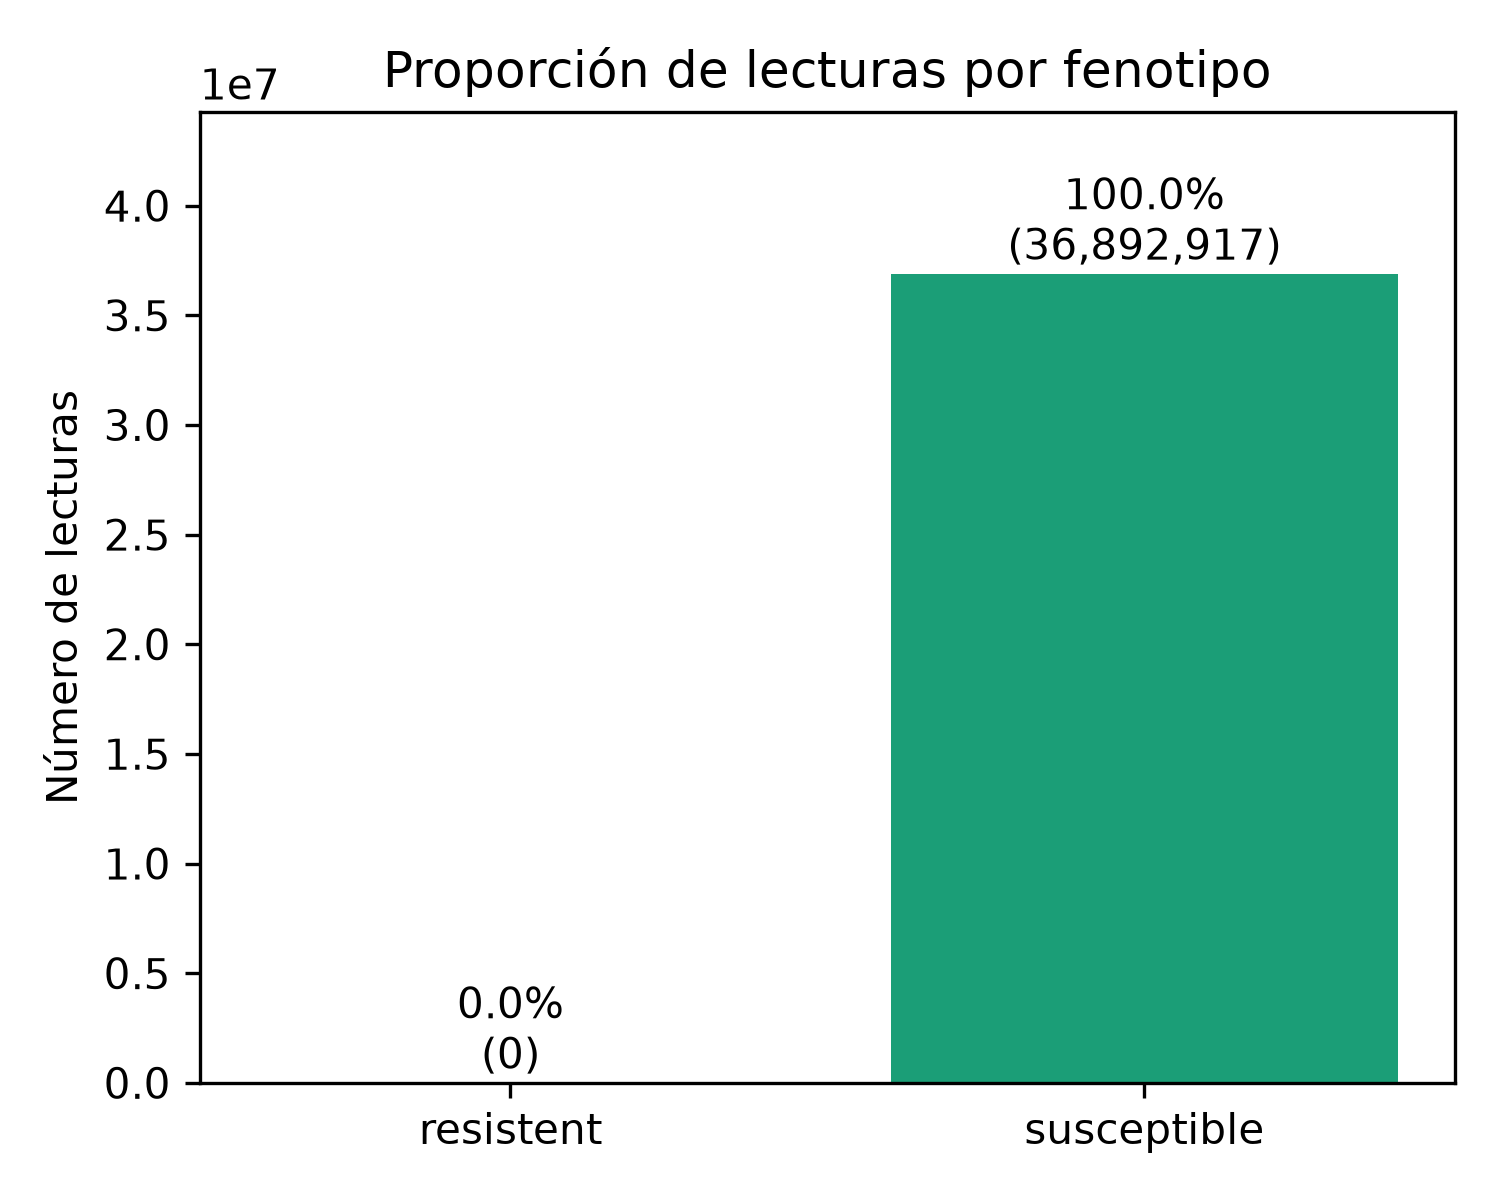
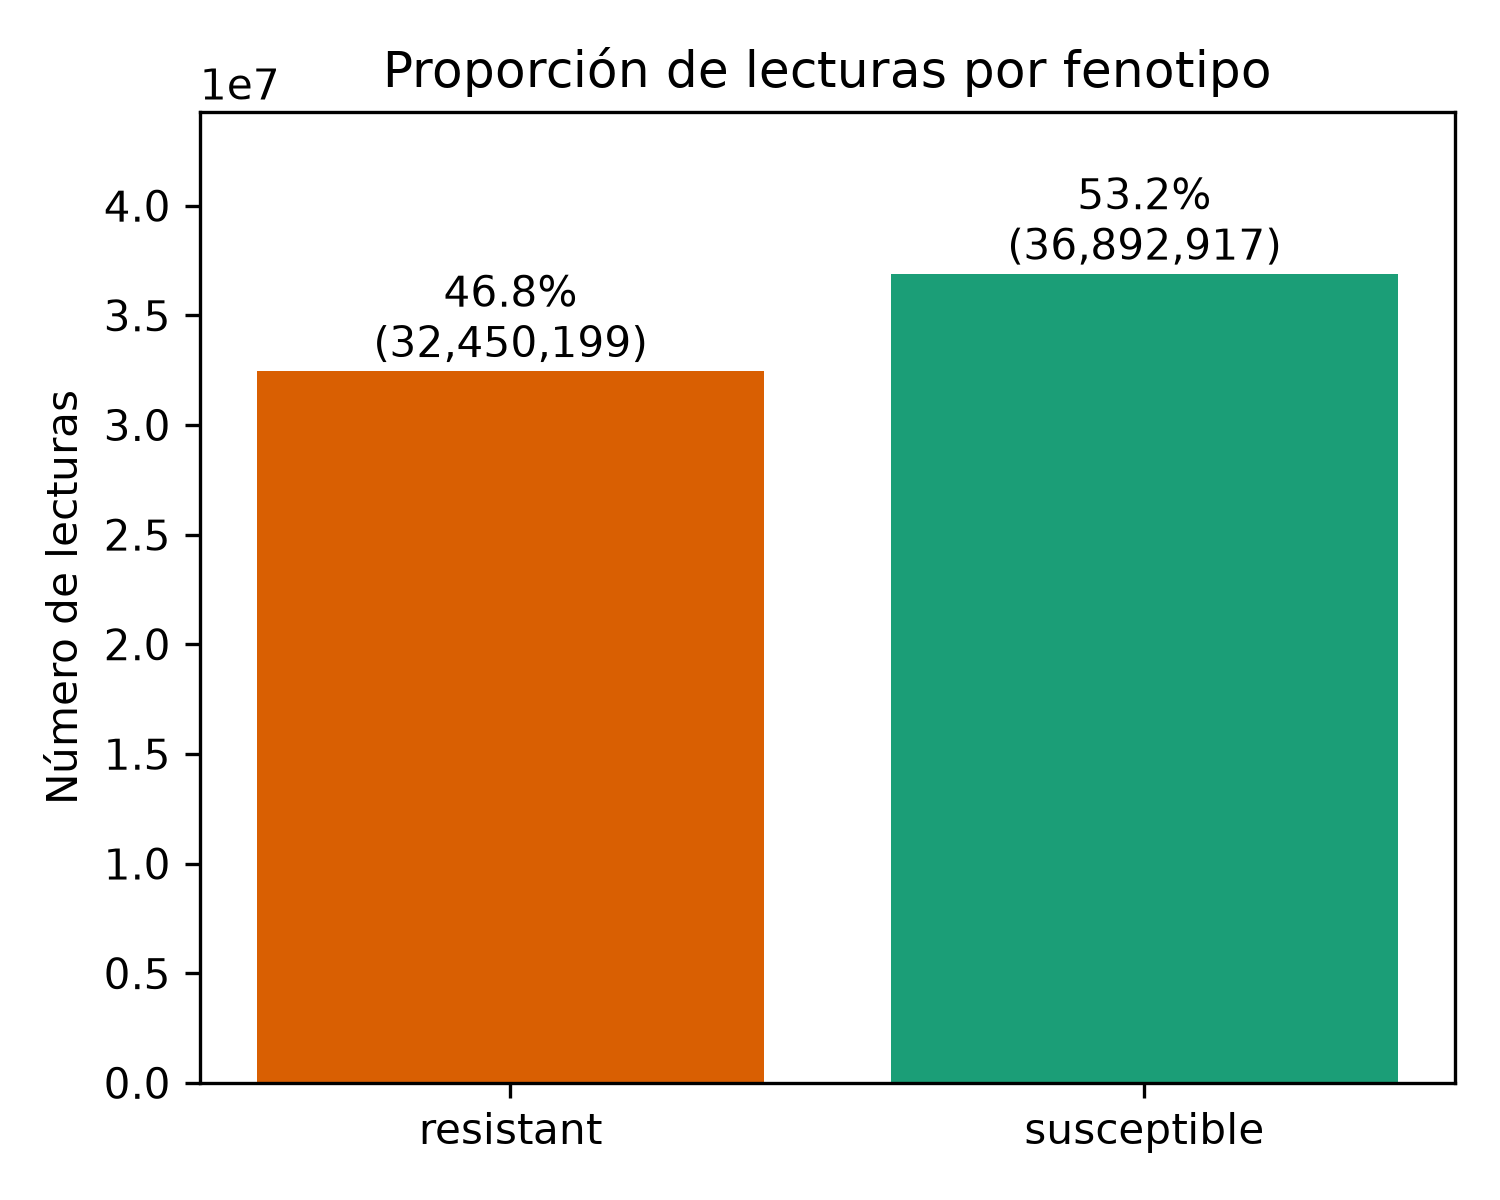
docs: update README, download_data docs, linux env and reads proportion plot

Changed region(s): [[0.1533, 0.2158, 0.5213, 0.9558], [0.7053, 0.1233, 0.828, 0.185]]

diff --git a/docs/download_data.md b/docs/download_data.md
@@ -1,0 +1,168 @@
+# Pipeline de la descarga de datos del Bioproject 
+
+## Resumen 
+
+Este módulo automatiza la consulta y descarga de datos asociados a un Bioproject de NCBI, a partir de un identificador (por ejemplo, PRJNA170440). 
+
+El módulo realiza lo siguiente:
+
+1. Configura NCBI Entrez con un email y API key. 
+2. Descarga los metadatos del BioProject.
+3. Obtiene los BioSamples y SRA asociados, y guarda sus metadatos.
+4. Descarga las lecturas (FASTQ) de cada SRA y las clasifica por fenotipo (`susceptible` o `resistant`).
+5. Opcionalmente, descarga el genoma de referencia del organismo.
+6. Opcionalmente, genera un gráfico comparativo de proporción de lecturas
+   entre los dos fenotipos.
+
+**Todas las acciones se registran con marcas de tiempo en un archivo de log.**
+
+## Requisitos 
+
+-  Python 3.12
+- Biopython (`Bio.Entrez`)
+- Matplotlib (para el gráfico de proporción de lecturas)
+- Conexión a internet
+
+**Se recomienda ejecutar desde la raíz del proyecto, ya  (`docs/`, `data/`, `results/`, `logs/`).**
+
+## Estructura de archivos generados 
+
+analisis_expresion_malaria/
+├── docs/
+│ ├── bioproject_metadata.txt
+│ ├── biosample_metadata.txt
+│ ├── sra_metadata.txt
+│ └── genome_metadata.txt
+├── data/
+│ ├── raw/
+│ │ ├── susceptible/sra_runs/ # FASTQ de la cepa susceptible
+│ │ └── resistant/sra_runs/ # FASTQ de la cepa resistente
+│ └── genome/
+│ └── genome_{organismo}.fasta
+├── results/
+│ └── reads_proportion.png
+└── logs/
+└── download_data.log
+
+## Pipeline 
+
+```mermaid
+flowchart TD
+    A([PRJNA...]) --> B[configurate_entrez]
+    B --> C[get_bioproject_uid]
+    C --> D[get_bioproject_metadata] --> D1[(bioproject_metadata.txt)]
+    D --> E[get_biosamples_and_sra]
+    E --> E1[save_biosample_metadata] --> E2[(biosample_metadata.txt)]
+    E --> E3[save_sra_metadata] --> E4[(sra_metadata.txt)]
+    E --> F[download_sra_lectures]
+    F --> F1[(data/raw/susceptible/sra_runs/)]
+    F --> F2[(data/raw/resistant/sra_runs/)]
+    F -.->|--reference| G[ get_bioproject_organism -> get_genome_metadata -> get_reference_assembly -> download_reference_genome]
+    G --> G1[(data/genome/genome_*.fasta)]
+    G --> G2[(genome_metadata.txt)]
+    F -.->|--graphic| H[plot_reads_proportion] --> H1[(results/reads_proportion.png)]
+```
+
+## Componentes clave 
+
+### Utilidades de Entrez
+
+`configurate_entrez(email, api_key)` — asigna `Entrez.email` y, si existe, `Entrez.api_key`. 
+Lanza `ValueError` si no se proporciona email.
+
+`get_bioproject_uid(bioproject_id)` — convierte un accession tipo `PRJNA...` al UID interno numérico mediante `esearch`. 
+Es la base de todas las consultas posteriores.
+
+### BioProject
+
+`get_bioproject_metadata(bioproject_id, outdir="docs")` — obtiene el resumen del BioProject (`esummary`) y lo guarda en `docs/bioproject_metadata.txt`.
+
+### BioSamples y SRA
+
+`get_biosamples_and_sra(bioproject_id)` — devuelve dos listas: UIDs de
+BioSamples y UIDs de SRA asociados al BioProject, usando `elink`. Imprime
+ambas listas y registra los conteos en el log.
+
+`save_biosample_metadata(biosample_ids, bioproject_id, outdir="docs")` —
+guarda `Accession`, `Id`, `Title`, `Organism` y `ProjectAccession` de cada
+BioSample en `docs/biosample_metadata.txt`.
+
+`save_sra_metadata(sra_ids, bioproject_id, outdir="docs")` — guarda
+`ExtId` (SRX), `Id`, `Title` y el accession del Run (SRR) extraído del XML
+`Runs` de cada SRA en `docs/sra_metadata.txt`.
+
+### Lecturas
+
+`download_sra_lectures(bioproject_id, outdir="data/", w=8)` — para cada SRA:
+
+1. Consulta `esummary(db="sra")`.
+2. Extrae el fenotipo del campo `ExpXml` mediante regex.
+3. Extrae los accessions de Run (`SRR`).
+4. Ejecuta `fasterq-dump <SRR> -O <dir> --split-files -e <workers>`.
+
+Las lecturas se almacenan en `data/raw/susceptible/sra_runs/` o
+`data/raw/resistent/sra_runs/` según el fenotipo detectado. Si aparece un
+fenotipo distinto, se crea `data/raw/<fenotipo>/sra_runs/`.
+
+### Genoma de referencia
+
+`get_reference_assembly(organism)` — busca en `db="assembly"` con el filtro
+`"reference genome"[filter]` y devuelve el primer ensamblaje de referencia
+como diccionario (`DocumentSummary`).
+
+`get_genome_metadata(bioproject_id, outdir="docs/")` — guarda en
+`docs/genome_metadata.txt` los campos:
+
+- `AssemblyAccession`
+- `AssemblyName`
+- `AssemblyStatus`
+- `Organism`
+- `RefSeq_category`
+- `FtpPath_RefSeq`
+- `FtpPath_GenBank`
+
+`download_reference_genome(bioproject_id, outdir="data/")` — usa
+`FtpPath_RefSeq` (o `FtpPath_GenBank` como respaldo), construye la URL del
+archivo `*_genomic.fna.gz`, lo descarga, lo descomprime y lo guarda como
+`data/genome/genome_{organismo}.fasta`. Si el archivo ya existe, omite la
+descarga.
+
+### Análisis rápido
+
+`count_reads(fastq_path)` — cuenta lecturas asumiendo 4 líneas por lectura.
+Soporta `.fastq` y `.fastq.gz`.
+
+`plot_reads_proportion(data_dir, outdir)` — cuenta lecturas de cada fenotipo
+(solo archivos `_1` en caso de paired-end, para no duplicar) y genera
+`results/reads_proportion.png` con la proporción por grupo.
+
+
+## Uso por línea de comandos
+
+### Argumentos
+
+| Argumento | Requerido | Default | Descripción |
+|---|---|---|---|
+| `-p`, `--project` | Sí | — | BioProject ID (`PRJNA...`) |
+| `-e`, `--email` | Sí | — | Email para NCBI Entrez |
+| `-a`, `--api_key` | No | `None` | API key de NCBI |
+| `-om`, `--outdirm` | No | `docs/` | Directorio de metadatos |
+| `-od`, `--outdird` | No | `data/` | Directorio de datos |
+| `--thr_fq` | No | `8` | Workers para `fasterq-dump` |
+| `-r`, `--reference` / `--no-reference` | No | `True` | Descargar genoma |
+| `-g`, `--graphic` / `--no-graphic` | No | `True` | Generar gráfico |
+| `-v`, `--verbose` | No | `False` | Mensajes DEBUG |
+| `--log_file` | No | `logs/download_data.log` | Ruta del log |
+
+### Ejemplos
+
+1. Ejecución mínima (metadatos + lecturas, sin genoma ni gráfico):
+
+```bash
+python src/download_data.py -p PRJNA170440 -e correo@ejemplo.com \ --no-reference --no-graphic
+```
+
+2. Ejecución completa 
+```bash
+python src/download_data.py -p PRJNA170440 -e correo@ejemplo.com -v
+```

diff --git a/README.md b/README.md
@@ -1,6 +1,6 @@
-# Expresión diferencial entre organismos de Anopheles gambiae, mosquito vector de la malaria, resistentes y susceptibles a insecticidas
+# Expresión diferencial entre organismos de *Anopheles gambiae*, mosquito vector de la malaria, resistentes y susceptibles a insecticidas
 
-Se analizarán los datos disponibles en la base de datos del NCBI para comparar los perfiles de expresión génica (transcriptomas) de mosquitos *Anopheles gambiae* resistentes a insecticidas frente a los susceptibles. El objetivo es identificar qué genes se expresan de manera diferencial y que, por lo tanto, podrían estar implicados en la resistencia.
+Se analizarán los datos disponibles en la base de datos del NCBI para comparar los perfiles de expresión génica (transcriptomas) de mosquitos *Anopheles gambiae* resistentes a deltametrina frente a los susceptibles. El objetivo es identificar qué genes se expresan de manera diferencial y que, por lo tanto, podrían estar implicados en la resistencia.
 
 Para conocer el planteamiento, las preguntas de investigación, la metodología y
 los resultados, consulta el [reporte de proyecto](docs/reporte-proyecto.md).
@@ -36,13 +36,15 @@ proyecto/
 ├──── curated/       # Datos curados
 ├────── resistent/   # Datos de organismo resistente curados
 ├────── susceptible/ # Datos de organismo susceptible curados
+├─── genome/         # Genoma del organismo
 ├──── raw/           # Datos crudos
-├────── resistent/   # Datos de organismo resistente crudos
+├────── resistant/   # Datos de organismo resistente crudos
 ├────── susceptible/ # Datos de organismo susceptible crudos
 ├── envs/            # Ambiente del proyecto
 ├── docs/            # Reporte y documentación
 ├── results/         # Tablas y figuras generadas
 ├── src/             # Código fuente
+├── logs/            # Archivos logs de los módulos
 ├── tests/           # Pruebas
 ├── CITATION.cff     # Información para citar el software
 ├── LICENSE          # Licencia
@@ -52,7 +54,7 @@ proyecto/
 
 ## Requisitos
 
-- Python 3.14.3
+- Python 3.12
 - Git
 - Conexión a internet para la descarga de datos
 
@@ -96,28 +98,35 @@ Estos datos serán situados en las carpetas correspondientes:
 proyecto/
 ├── data/            # Datos de ejemplo o archivos pequeños
 ├──── raw/           # Datos crudos
-├────── resistent/   # Datos de organismo resistente crudos
+├────── resistant/   # Datos de organismo resistente crudos
 ├────── susceptible/ # Datos de organismo susceptible crudos
 ```
 
 Uso sugerido en la terminal:
 
-    python src/download_data.py
+    python src/download_data.py -p PJRNA170440 -e correo@ejemplo.com -a api_key -v
 
 Los archivos se guardarán en data/raw/. Los identificadores, versiones y criterios de selección se documentan en docs/reporte-proyecto.md.
 
 La procedencia y características detalladas se describen en el
 [reporte del proyecto](docs/reporte-proyecto.md).
 
-## Uso #PENDIENTE
-
-[Expliquen qué hace el siguiente comando y qué entradas necesita.]
+## Uso
 
 ```bash
-python src/main.py [argumentos]
+python src/download_data.py -p PJRNA170440 -e correo@ejemplo.com -a api_key -v
 ```
 
-[Indiquen dónde se guardan los resultados.]
+Este primer comando indica la descarga de los datos mediante el módulo ***download_data.py***.
+
+Los argumentos sugeridos son los siguientes:
+    -p -> Identificador del BioProject.
+    -e -> Correo electrónico del usuario para su ingreso a NCBI.
+    -a -> Api-Key para una navegación más rápida dentro de NCBI.
+    -v -> Archivo logs
+
+Los resultados se guardan en sus carpetas respectivas, es decir, los metadatos se guardan en *docs/*,
+los datos descargados se guardan en *data/* y las figuras generadas se guardan en *results/*
 
 <!--
 AYUDA:
@@ -133,14 +142,16 @@ Para analizar los identificadores incluidos en data/accessions.txt:
 El comando generará results/gene_matrix.csv y results/heatmap.png.
 -->
 
-## Reproducción de resultados # PENDIENTE
+## Reproducción de resultados
 
 Ejecuten los siguientes pasos en el orden indicado:
 
 ```bash
-python scripts/download_data.py
-python src/run_analysis.py
-python src/create_figures.py
+python src/download_data.py -p PJRNA170440 -e correo@ejemplo.com -a api_key -v
+python src/multiqc_module.py
+python src/trimming_module.py
+
+# PENDIENTE
 ```
 
 Los resultados esperados se generarán en `results/`.
